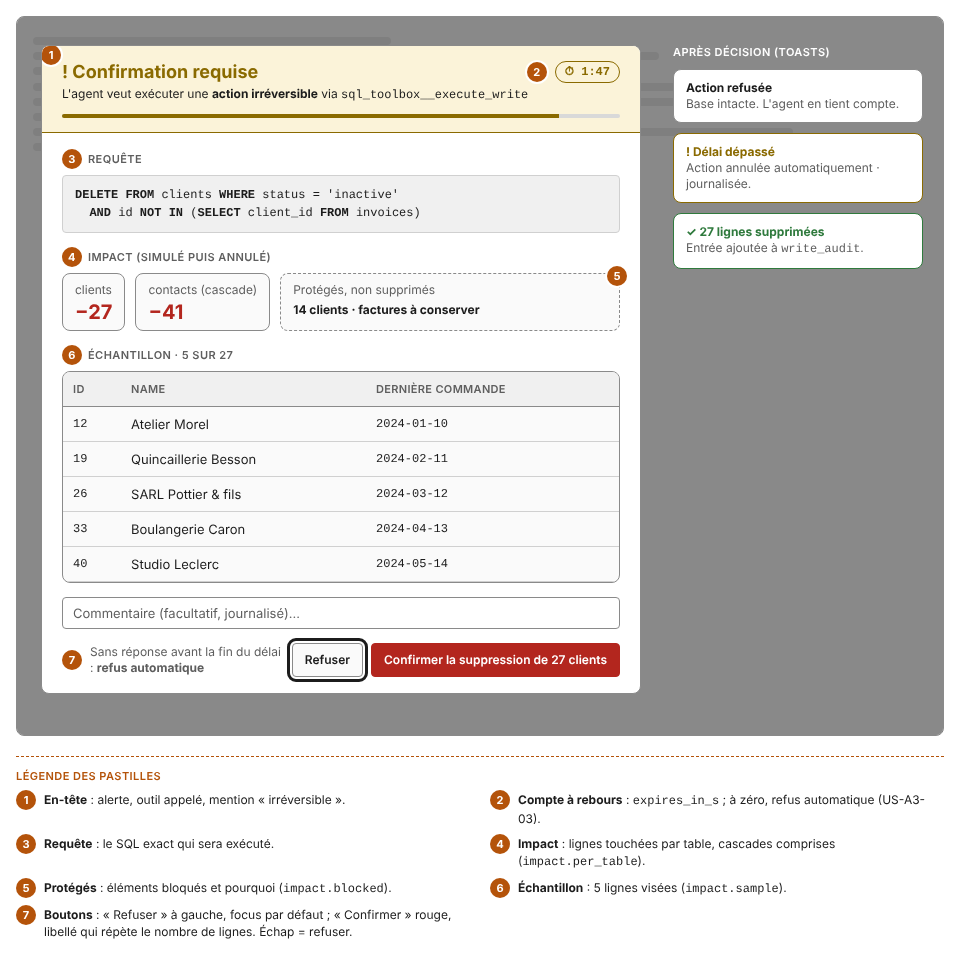
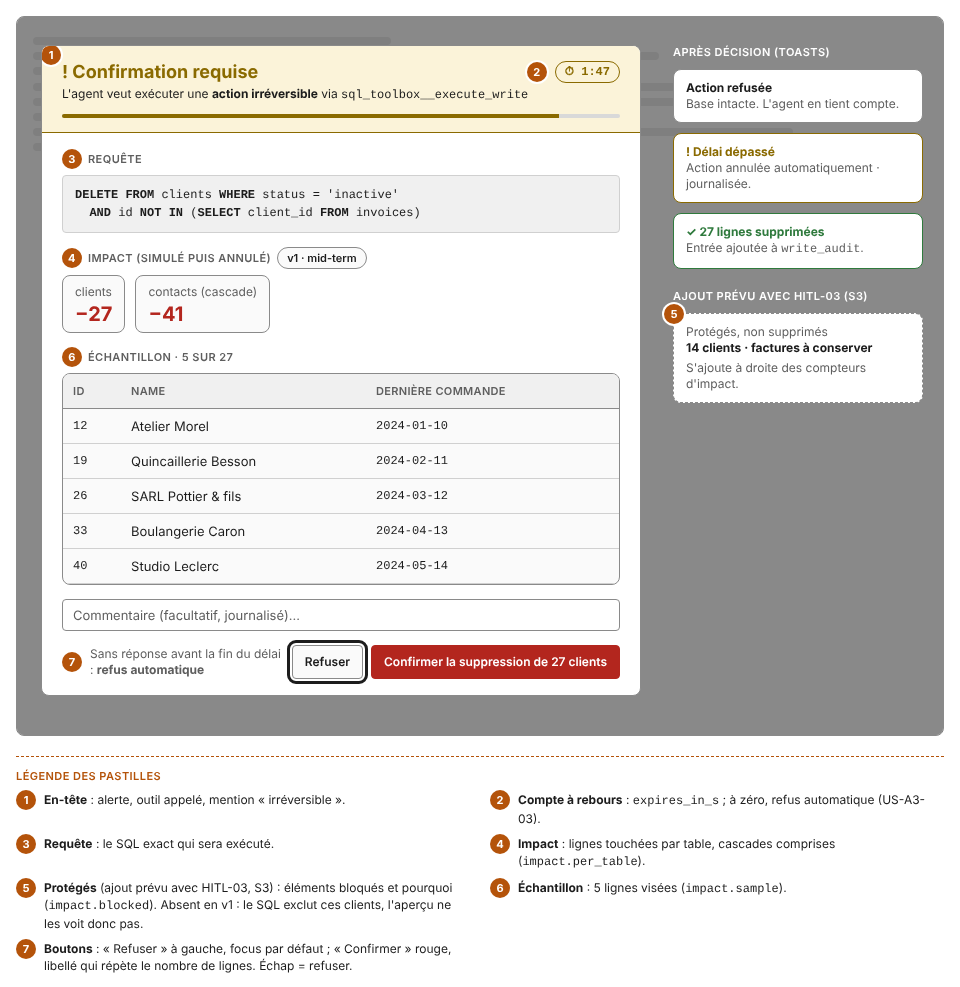
[A.P] fix : UI

diff --git a/docs/keynote/ui/ModaleHITL/ModaleHITL.html b/docs/keynote/ui/ModaleHITL/ModaleHITL.html
@@ -69,11 +69,10 @@ td.n,th.n{text-align:right;font-variant-numeric:tabular-nums}
     <div style="padding:16px 20px;display:flex;flex-direction:column;gap:14px">
       <div class="rel"><div class="label row" style="margin-bottom:6px;gap:6px"><span class="pin in">3</span>Requête</div><div class="code" style="white-space:pre-wrap"><b>DELETE FROM</b> clients <b>WHERE</b> status = 'inactive'
   <b>AND</b> id <b>NOT IN</b> (<b>SELECT</b> client_id <b>FROM</b> invoices)</div></div>
-      <div class="rel"><div class="label row" style="margin-bottom:6px;gap:6px"><span class="pin in">4</span>Impact (simulé puis annulé)</div>
+      <div class="rel"><div class="label row" style="margin-bottom:6px;gap:6px"><span class="pin in">4</span>Impact (simulé puis annulé)<span class="chip" style="text-transform:none;letter-spacing:0">v1 · mid-term</span></div>
         <div class="row" style="gap:10px;align-items:stretch">
           <div class="kpi" style="padding:8px 12px"><span class="small muted">clients</span><b style="font-size:20px;color:var(--bad)">−27</b></div>
           <div class="kpi" style="padding:8px 12px"><span class="small muted">contacts (cascade)</span><b style="font-size:20px;color:var(--bad)">−41</b></div>
-          <div class="kpi grow rel" style="padding:8px 12px;border-style:dashed"><span class="pin" style="right:-8px;top:-8px">5</span><span class="small muted">Protégés, non supprimés</span><b class="small">14 clients · factures à conserver</b></div>
         </div></div>
       <div class="rel"><div class="label row" style="margin-bottom:6px;gap:6px"><span class="pin in">6</span>Échantillon · 5 sur 27</div>
         <div class="box" style="overflow:hidden"><table><thead><tr><th>id</th><th>name</th><th>dernière commande</th></tr></thead><tbody><tr><td class='mono'>12</td><td>Atelier Morel</td><td class='mono'>2024-01-10</td></tr><tr><td class='mono'>19</td><td>Quincaillerie Besson</td><td class='mono'>2024-02-11</td></tr><tr><td class='mono'>26</td><td>SARL Pottier & fils</td><td class='mono'>2024-03-12</td></tr><tr><td class='mono'>33</td><td>Boulangerie Caron</td><td class='mono'>2024-04-13</td></tr><tr><td class='mono'>40</td><td>Studio Leclerc</td><td class='mono'>2024-05-14</td></tr></tbody></table></div></div>
@@ -87,10 +86,12 @@ td.n,th.n{text-align:right;font-variant-numeric:tabular-nums}
     <div class="box small" style="padding:10px 12px;background:var(--paper)"><b>Action refusée</b><br><span class="muted">Base intacte. L'agent en tient compte.</span></div>
     <div class="box small" style="padding:10px 12px;background:var(--paper);border-color:var(--warn)"><b style="color:var(--warn)">! Délai dépassé</b><br><span class="muted">Action annulée automatiquement · journalisée.</span></div>
     <div class="box small" style="padding:10px 12px;background:var(--paper);border-color:var(--ok)"><b style="color:var(--ok)">✓ 27 lignes supprimées</b><br><span class="muted">Entrée ajoutée à <span class="mono">write_audit</span>.</span></div>
+    <span class="label" style="color:var(--paper);margin-top:10px">Ajout prévu avec HITL-03 (S3)</span>
+    <div class="box small rel" style="padding:10px 12px;background:var(--paper);border-style:dashed"><span class="pin" style="left:-10px;top:-10px">5</span><span class="muted">Protégés, non supprimés</span><br><b>14 clients · factures à conserver</b><div class="muted" style="margin-top:4px">S'ajoute à droite des compteurs d'impact.</div></div>
   </div>
 </div>
 <style>.legend{margin-top:20px;border-top:1.5px dashed var(--annot);padding-top:12px;max-width:1248px}
 .legend .items{display:grid;grid-template-columns:repeat(auto-fill,minmax(380px,1fr));gap:8px 20px;margin-top:8px}
 .legend .it{display:flex;gap:8px;align-items:flex-start;font-size:12px;line-height:17px}
-.legend .it .pin{margin-top:-1px}.legend .k{font-weight:700}</style><div class="legend"><div class="label" style="color:var(--annot)">Légende des pastilles</div><div class="items"><div class="it"><span class="pin in">1</span><span><b>En-tête</b> : alerte, outil appelé, mention « irréversible ».</span></div><div class="it"><span class="pin in">2</span><span><b>Compte à rebours</b> : <span class="mono">expires_in_s</span> ; à zéro, refus automatique (US-A3-03).</span></div><div class="it"><span class="pin in">3</span><span><b>Requête</b> : le SQL exact qui sera exécuté.</span></div><div class="it"><span class="pin in">4</span><span><b>Impact</b> : lignes touchées par table, cascades comprises (<span class="mono">impact.per_table</span>).</span></div><div class="it"><span class="pin in">5</span><span><b>Protégés</b> : éléments bloqués et pourquoi (<span class="mono">impact.blocked</span>).</span></div><div class="it"><span class="pin in">6</span><span><b>Échantillon</b> : 5 lignes visées (<span class="mono">impact.sample</span>).</span></div><div class="it"><span class="pin in">7</span><span><b>Boutons</b> : « Refuser » à gauche, focus par défaut ; « Confirmer » rouge, libellé qui répète le nombre de lignes. Échap = refuser.</span></div></div></div>
+.legend .it .pin{margin-top:-1px}.legend .k{font-weight:700}</style><div class="legend"><div class="label" style="color:var(--annot)">Légende des pastilles</div><div class="items"><div class="it"><span class="pin in">1</span><span><b>En-tête</b> : alerte, outil appelé, mention « irréversible ».</span></div><div class="it"><span class="pin in">2</span><span><b>Compte à rebours</b> : <span class="mono">expires_in_s</span> ; à zéro, refus automatique (US-A3-03).</span></div><div class="it"><span class="pin in">3</span><span><b>Requête</b> : le SQL exact qui sera exécuté.</span></div><div class="it"><span class="pin in">4</span><span><b>Impact</b> : lignes touchées par table, cascades comprises (<span class="mono">impact.per_table</span>).</span></div><div class="it"><span class="pin in">5</span><span><b>Protégés</b> (ajout prévu avec HITL-03, S3) : éléments bloqués et pourquoi (<span class="mono">impact.blocked</span>). Absent en v1 : le SQL exclut ces clients, l'aperçu ne les voit donc pas.</span></div><div class="it"><span class="pin in">6</span><span><b>Échantillon</b> : 5 lignes visées (<span class="mono">impact.sample</span>).</span></div><div class="it"><span class="pin in">7</span><span><b>Boutons</b> : « Refuser » à gauche, focus par défaut ; « Confirmer » rouge, libellé qui répète le nombre de lignes. Échap = refuser.</span></div></div></div>
 </body></html>

diff --git a/docs/keynote/ui/ModaleHITL/README.md b/docs/keynote/ui/ModaleHITL/README.md
@@ -7,9 +7,14 @@ Fenêtre bloquante qui montre une action destructive et son impact avant de dema
 2. **Compte à rebours** : `expires_in_s` ; à zéro, refus automatique (US-A3-03).
 3. **Requête** : le SQL exact qui sera exécuté.
 4. **Impact** : lignes touchées par table, cascades comprises (`impact.per_table`).
-5. **Protégés** : éléments bloqués et pourquoi (`impact.blocked`).
+5. **Protégés** (ajout prévu avec HITL-03, S3) : éléments bloqués et pourquoi (`impact.blocked`). Absent en v1 : le SQL exclut ces clients, l'aperçu ne les voit donc pas.
 6. **Échantillon** : 5 lignes visées (`impact.sample`).
 7. **Boutons** : « Refuser » à gauche, focus par défaut ; « Confirmer » rouge, libellé qui répète le nombre de lignes. Échap = refuser.
+
+## Versions
+- **v1 (mid-term)** : l'impact montre seulement les lignes supprimées (27 clients, 41 contacts).
+- **Avec HITL-03 (aperçu riche, S3)** : ajout du bloc « Protégés » (14 clients, factures à conserver).
+- À signaler dans le scénario de démo (KEY-00).
 
 ## Après la décision
 Toasts : refusée (base intacte), délai dépassé (annulée, journalisée), confirmée (lignes supprimées, `write_audit`).

diff --git a/docs/keynote/ui/README.md b/docs/keynote/ui/README.md
@@ -31,7 +31,7 @@ Maquettes de la Web UI (fonctionnalité **X1**) du copilote BI SENSAI. Tâche **
 | 1. Question métier | Conversation, Timeline, BlocSQL, TableauResultats, FicheIndicateurs, BadgeJuge |
 | 2. Mémoire métier | PanneauMemoire (nouvelle entrée), BlocSQL (« mémoire appliquée ») |
 | 3. Hallucination attrapée | BadgeJuge (état contredit, surlignage) |
-| 4. Action destructive | ModaleHITL (refus puis confirmation), toasts |
+| 4. Action destructive | ModaleHITL (refus puis confirmation), toasts. En v1 (mid-term), pas de compteur de clients protégés : il arrive avec HITL-03 (S3). À signaler dans KEY-00. |
 | 5. Ouverture | BarreEtat (nouveau serveur MCP), ModaleHITL sur écriture de fichier |
 | 6. Preuve chiffrée | hors Web UI (slides) |
 
